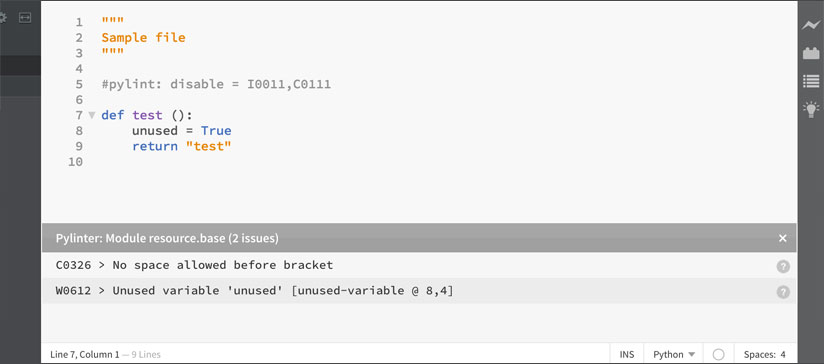
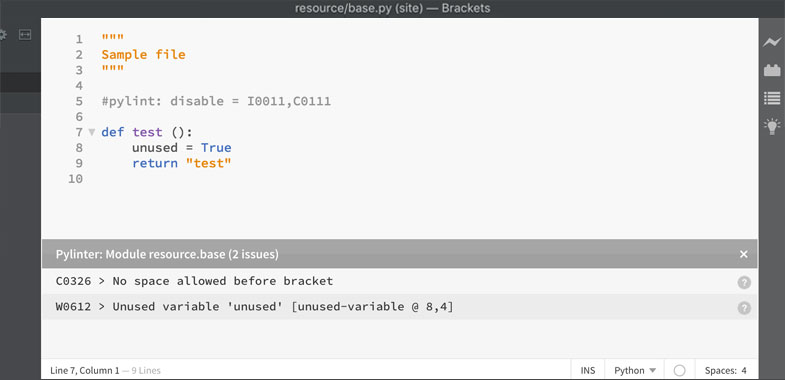
- Add async param to registerCommand methods in node-context. - Update screenshot. - Add feature list to README.

diff --git a/node-context.js b/node-context.js
@@ -24,14 +24,16 @@
 
     domainMgr.registerCommand(
       "nodeLogic", //domain name
-      "lintIt", //command name
-      lintIt //command handler function
+      "lintIt",    //command name
+      lintIt,      //command handler function
+      false        //this command is synchronous in Node
     );
 
     domainMgr.registerCommand(
       "nodeLogic",
       "getMsg",
-      getMsg
+      getMsg,
+      false
     );
 
     domainMgr.registerEvent("nodeLogic", "lintComplete");

diff --git a/README.md b/README.md
@@ -4,6 +4,16 @@ A Python linter for Brackets. This extension lints Python code on save (with Pyl
 
 ![Screenshot](./screenshot.jpg)
 
+## Features
+
+- Automatically lints on file open and file save.
+- Displays file name and issue counter.
+- Configurable lint message [output pattern](#configure).
+- Resizable window pane.
+- Closable window pane (will stay closed until the file is re-saved).
+- Clicking on a lint message will take you to the related line in the code editor.
+- Clicking on a lines "?" button will open a more detailed Pylint message.
+
 ## Install Pylint
 
 Install Pylint by following instructions from <https://www.pylint.org/#install>
@@ -13,7 +23,7 @@ Install Pylint by following instructions from <https://www.pylint.org/#install>
 In the Brackets Extension Manager, either:
 
 - Search for Pylinter
-- Use the "install from URL" option and paste in `https://github.com/Grafluxe/pylinter.git`
+- Use the "install from URL" option and paste in `https://github.com/Grafluxe/pylinter`
 
 Restart Brackets after install.
 
@@ -21,17 +31,17 @@ Restart Brackets after install.
 
 Pylinter comes with two preference options.
 
-- pylinter.pylintPath
-    - The path to your Pylint install.
-- pylinter.outputPattern
+- pylinter.outputPattern:
     - The Pylint message output pattern.
     - Defaults to "{msg_id} > {msg} [{symbol} @ {line},{column}]."
     - To further customize the output pattern, use formats specified [here](https://pylint.readthedocs.io/en/latest/user_guide/output.html).
+- pylinter.pylintPath:
+    - The path to your Pylint install.
 
 ## License
 
-Released under the MIT License.
-
 Copyright (c) 2016 Leandro Silva (http://grafluxe.com)
+
+Released under the MIT License.
 
 See LICENSE.md for entire terms.
